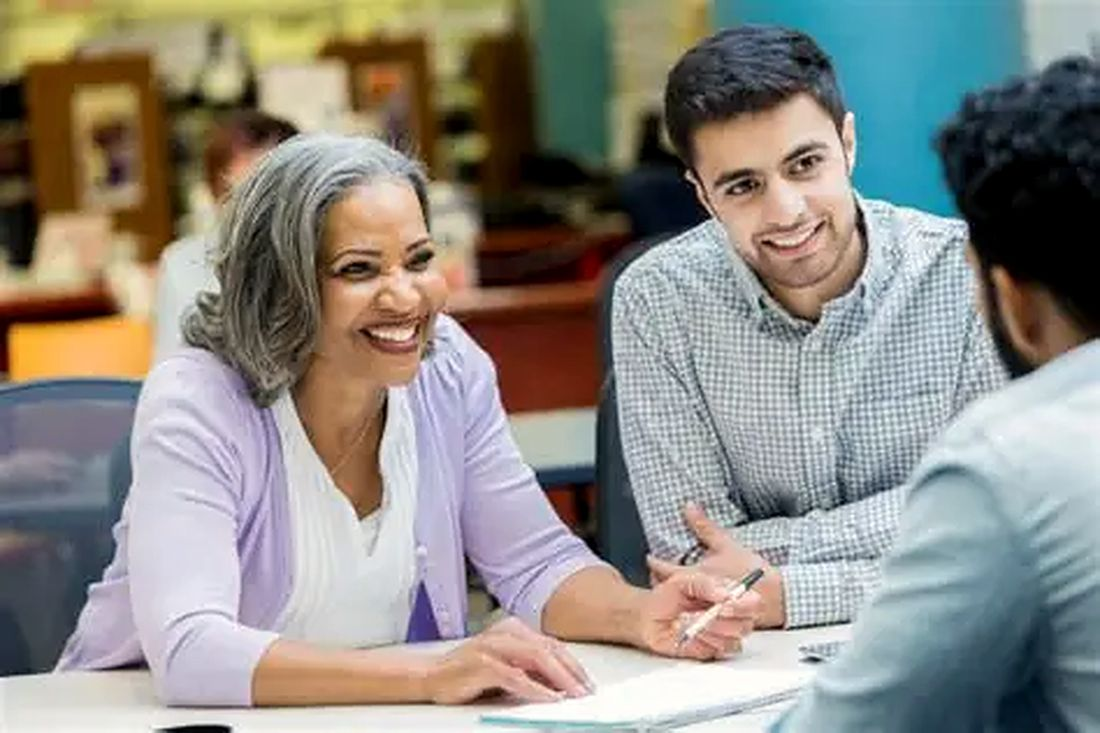
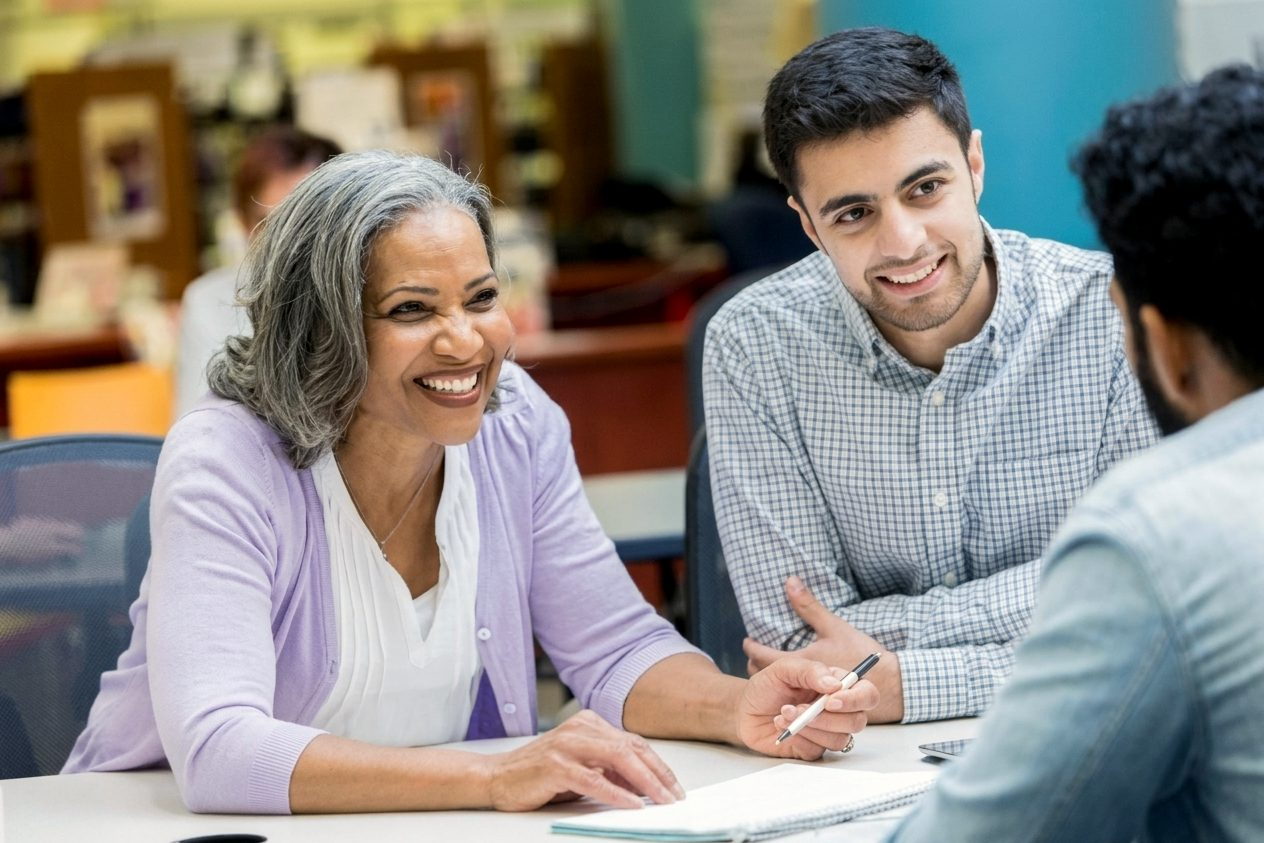
Corrige la maquette photo plein cadre, photo HD de l'élue, couleurs en sélecteur instantané

diff --git a/index.html b/index.html
@@ -177,12 +177,12 @@ p{margin:0}
 .l-band .s-hero{padding:3.2cqi 4.4cqi 5cqi}
 .l-band .s-in{padding-top:0}
 /* L3 full photo */
-.l-full .s-cover{position:relative; min-height:58cqi; padding:3.2cqi 4.4cqi 9cqi; display:flex; flex-direction:column; background:var(--s-hero); --s-head:var(--s-hero-ink); --s-ink:var(--s-hero-ink); --s-muted:var(--s-hero-muted); --s-logo:var(--s-hero-ink); --s-btn:var(--s-hero-ink); --s-btn-ink:var(--s-hero); --s-accent-ink:var(--s-accent-hero)}
+.l-full .s-cover{position:relative; isolation:isolate; min-height:58cqi; padding:3.2cqi 4.4cqi 9cqi; display:flex; flex-direction:column; background:var(--s-hero); --s-head:var(--s-hero-ink); --s-ink:var(--s-hero-ink); --s-muted:var(--s-hero-muted); --s-logo:var(--s-hero-ink); --s-btn:var(--s-hero-ink); --s-btn-ink:var(--s-hero); --s-accent-ink:var(--s-accent-hero)}
 .l-full .s-cover > img{position:absolute; z-index:0; inset:0; width:100%; height:100%; object-fit:cover; object-position:70% 30%}
 .l-full .s-cover::before{content:""; position:absolute; z-index:1; inset:0; background:linear-gradient(90deg, color-mix(in srgb, var(--s-hero) 94%, transparent) 0%, color-mix(in srgb, var(--s-hero) 72%, transparent) 46%, color-mix(in srgb, var(--s-hero) 10%, transparent) 100%)}
 .l-full .s-cover > *:not(img){position:relative; z-index:2}
 .l-full .s-cover .s-text{margin-top:auto}
-.l-full .s-tiles{margin:-6cqi 4.4cqi 0; position:relative; padding-bottom:4.4cqi}
+.l-full .s-tiles{margin:-6cqi 4.4cqi 0; position:relative; z-index:1; padding-bottom:4.4cqi}
 .l-full{--s-fh:var(--fb); --s-fw:800; --s-ls:-.035em}
 /* L4 soft */
 .l-soft .s-in{padding:2cqi 2.4cqi 3cqi}
@@ -288,8 +288,12 @@ p{margin:0}
 }
 
 /* palettes section: one full-width showcase per palette */
-.pals{display:grid; grid-template-columns:minmax(0, 1fr); gap:64px}
-.pal{display:grid; gap:16px; min-width:0}
+.pals{display:grid; grid-template-columns:minmax(0, 1fr); gap:16px; min-width:0}
+.pals > *{min-width:0}
+.palbar--static{position:static; margin:0 0 6px; box-shadow:none}
+.pal__rate[hidden]{display:none}
+.pal__rl{font-size:17px; font-weight:700; color:var(--deep)}
+.pchip em{font-style:normal; background:var(--white); color:var(--deep); border-radius:99px; padding:1px 8px; font-size:12.5px; font-weight:800}
 .pal__head{display:flex; flex-wrap:wrap; justify-content:space-between; align-items:flex-end; gap:14px 28px}
 .pal__head h3{font-size:clamp(28px, 3vw, 38px)}
 .pal__head p{font-size:17.5px; color:var(--muted); max-width:52ch; margin-top:6px}
@@ -298,7 +302,7 @@ p{margin:0}
 .pal__sw i{width:60px; height:44px; border-radius:10px; box-shadow:inset 0 0 0 1px var(--hair-3)}
 .pal__use{justify-self:start; min-height:44px; border:0; border-radius:99px; padding:8px 18px; background:var(--chip); color:var(--deep); font-weight:700; font-size:15.5px}
 .pal__use:hover{background:var(--chip-2)}
-.pal .rate{margin-top:0}
+.pals .rate{margin-top:6px}
 .s-strip{display:flex; flex-wrap:wrap; align-items:center; gap:2cqi 4cqi; padding:3.4cqi 4.4cqi}
 .s-strip b{font-family:var(--s-fh); font-weight:var(--s-fw); font-size:clamp(30px, 4.6cqi, 56px); line-height:1; color:var(--s-head)}
 .s-strip p{color:var(--s-muted); font-size:clamp(14px, 1.7cqi, 19px); max-width:36ch}
@@ -632,8 +636,8 @@ footer div{display:flex; flex-wrap:wrap; justify-content:space-between; gap:12px
 
   <section class="sec wrap" id="palettes">
     <div class="sec__head">
-      <h2>Huit palettes de couleurs, en action</h2>
-      <p>Chaque palette sur une page complète : le fond, les titres, les boutons, le bandeau de couleur et les cartes. Toutes gardent votre logo et votre turquoise. Un bouton l’applique aussi aux huit pages d’accueil.</p>
+      <h2>Huit palettes de couleurs</h2>
+      <p>Touchez une palette : la page d’exemple change tout de suite. Notez chacune. Toutes gardent votre logo et votre turquoise.</p>
     </div>
     <div class="pals" id="pals"></div>
   </section>

diff --git a/assets/app.js b/assets/app.js
@@ -83,14 +83,24 @@ $('#palbar').innerHTML = `<span>Couleurs des maquettes</span><button class="pchi
 $('#palbar').addEventListener('click', e => { const b = e.target.closest('[data-pal]'); if (!b) return; palPick = +b.dataset.pal; applyPal(); });
 applyPal();
 
-$('#pals').innerHTML = PALS.map(p => `
-  <article class="pal">
-    <div class="pal__head"><div><h3>${p.n}</h3><p>${p.d}</p></div><div class="pal__sw" aria-hidden="true">${p.sw.map(c => `<span><i style="background:${c}"></i>${c}</span>`).join('')}</div></div>
-    <div class="scr"><div class="scr__bar"><i></i><i></i><i></i><span>qualyz.fr</span></div><div class="site l-show" data-theme="p${p.k}">${LAYOUT.show()}</div></div>
-    <button class="pal__use" data-use="${p.k}">Appliquer aux 8 pages d’accueil</button>
-    ${rateSlot('cp-' + p.k, 'Couleurs : ' + p.n)}
-  </article>`).join('');
-$('#pals').addEventListener('click', e => { const b = e.target.closest('[data-use]'); if (!b) return; palPick = +b.dataset.use; applyPal(); $('#styles').scrollIntoView(); });
+/* palettes: one sample page, switched instantly; each palette keeps its own rating */
+const sw3 = p => p.sw.slice(0, 3).map(c => `<b style="background:${c}"></b>`).join('');
+$('#pals').innerHTML = `<div class="palbar palbar--static" id="palPick" role="group" aria-label="Palette affichée">${PALS.map(p => `<button class="pchip" data-show="${p.k}" aria-pressed="false"><i aria-hidden="true">${sw3(p)}</i>${p.n}</button>`).join('')}</div>
+  <div class="pal__head"><div><h3 id="palName"></h3><p id="palDesc"></p></div><div class="pal__sw" id="palSw" aria-hidden="true"></div></div>
+  <div class="scr"><div class="scr__bar"><i></i><i></i><i></i><span>qualyz.fr</span></div><div class="site l-show" id="palSite" data-theme="p1">${LAYOUT.show()}</div></div>
+  <button class="pal__use" id="palUse">Appliquer aussi aux 8 pages d’accueil</button>
+  ${PALS.map(p => `<div class="pal__rate" data-for="${p.k}" hidden><p class="pal__rl">Votre note pour « ${p.n} »</p>${rateSlot('cp-' + p.k, 'Couleurs : ' + p.n)}</div>`).join('')}`;
+let palShow = 1;
+const showPal = k => { palShow = k; const p = PALS[k - 1];
+  $('#palSite').dataset.theme = 'p' + k; $('#palName').textContent = p.n; $('#palDesc').textContent = p.d;
+  $('#palSw').innerHTML = p.sw.map(c => `<span><i style="background:${c}"></i>${c}</span>`).join('');
+  document.querySelectorAll('[data-show]').forEach(b => b.setAttribute('aria-pressed', +b.dataset.show === k));
+  document.querySelectorAll('.pal__rate').forEach(d => d.hidden = +d.dataset.for !== k); };
+const palScores = () => document.querySelectorAll('[data-show]').forEach(b => { const v = S.r['cp-' + b.dataset.show]; let em = b.querySelector('em');
+  if (v) { if (!em) { em = document.createElement('em'); b.appendChild(em); } em.textContent = v; } else if (em) em.remove(); });
+$('#palPick').addEventListener('click', e => { const b = e.target.closest('[data-show]'); if (b) showPal(+b.dataset.show); });
+$('#palUse').addEventListener('click', () => { palPick = palShow; applyPal(); $('#styles').scrollIntoView(); });
+showPal(1);
 
 /* ---------- tone ---------- */
 const TONS = [
@@ -332,7 +342,7 @@ const paintRates = () => RATES.forEach(r => { const v = S.r[r.dataset.id];
 /* ---------- summary and export ---------- */
 const ALL = RATES.map(r => r.dataset.id);
 const paint = () => {
-  paintRates();
+  paintRates(); palScores();
   const n = ALL.filter(id => S.r[id]).length;
   $('#progtxt').textContent = n + (n > 1 ? ' notées' : ' notée') + ' sur ' + ALL.length;
   $('#progbar').style.transform = `scaleX(${n / ALL.length})`;
